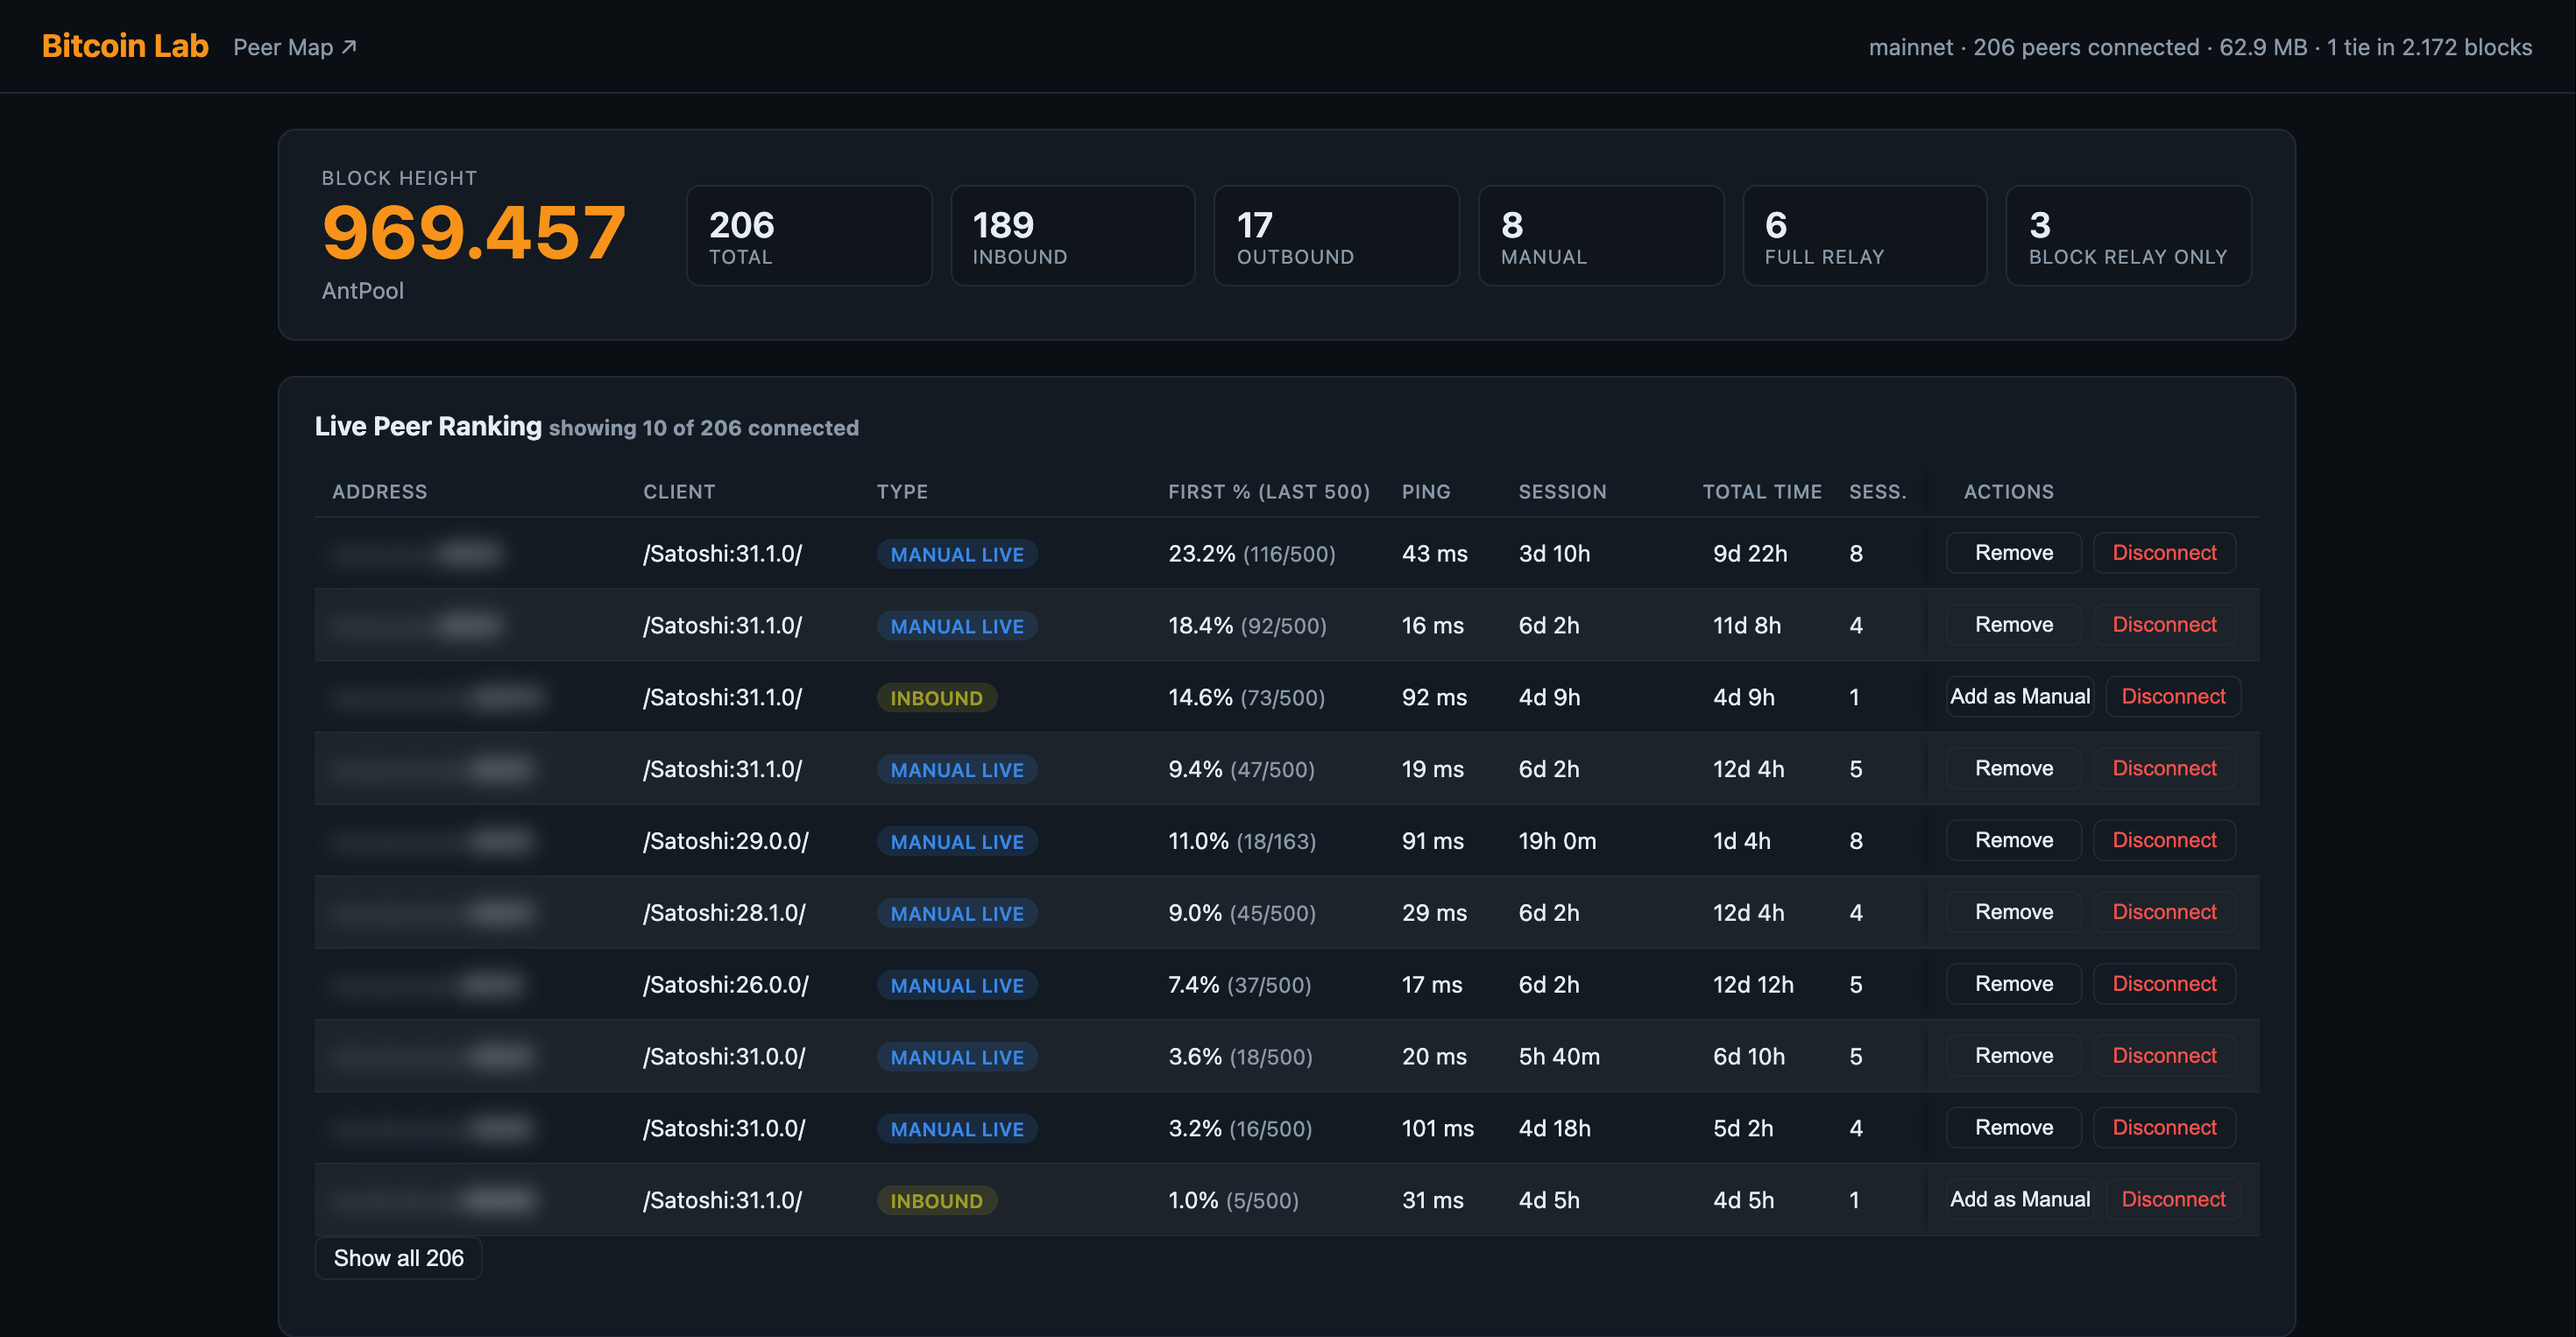
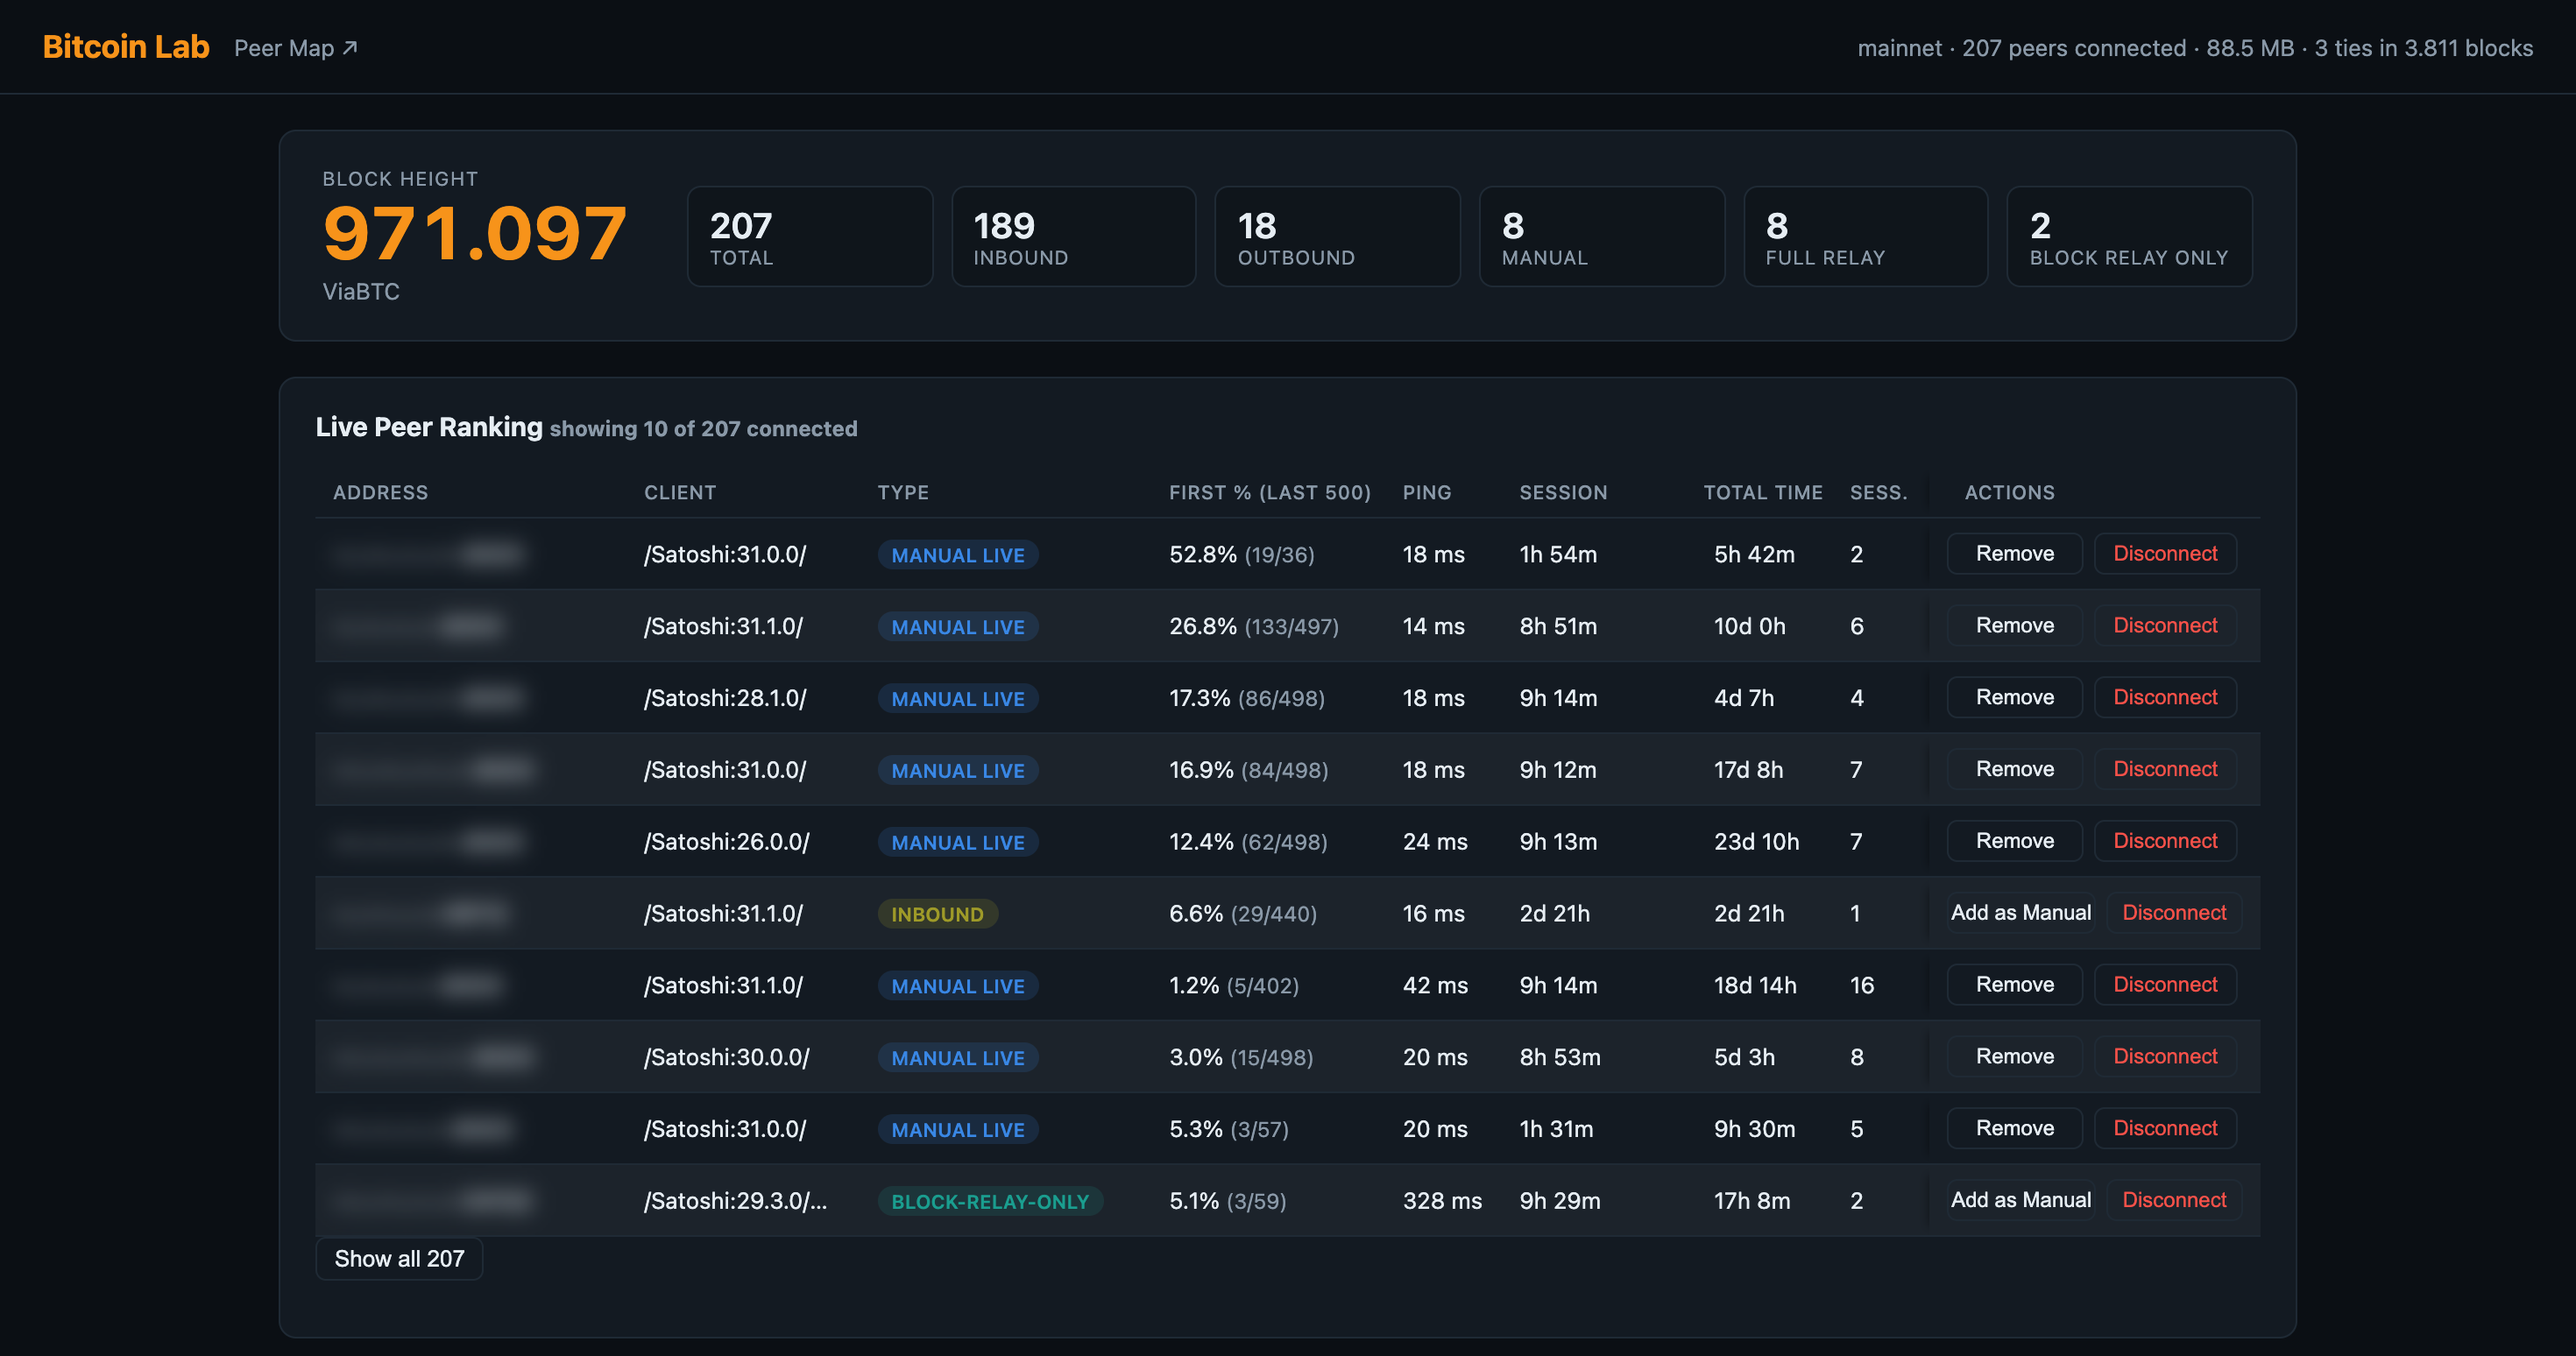
New store pictures for Bitcoin Lab 1.26.0 and Peer Map 1.0.0
One capture per app, block 971,097: Stratum Race now shows the found
pool apps and the quick-fill buttons; the Peer Map header counts
LinkingLion. Only the addresses are blurred.

Claude-Session: https://claude.ai/code/session_01BySZq6HhNnVP3Qiw8jsU3d

diff --git a/RELEASING.md b/RELEASING.md
@@ -186,9 +186,10 @@ Peer Map header image in this repository's `README.md`, and
 `bitcoinlab-peermap/overview.png` (the top of the page, 2940 × 4398) heads the
 Peer Map README. All three come from one capture.
 
-The pictures of 1 October 2026 were captured from the real dashboards with
-Playwright (1470 CSS px wide at 2×, dark mode, addresses replaced and blurred
-before the capture) and cut with `sips`.
+The pictures of 12 October 2026 (block 971,097) were captured from the real
+dashboards with Playwright (1470 CSS px wide at 2×, dark mode; only the addresses
+themselves replaced and blurred before the capture, so location and operator stay
+readable) and cut with `ffmpeg`.
 
 For pictures without a real node, captures come from the app repo's demo data and
 `scripts/screenshot.js`, which takes **one**
